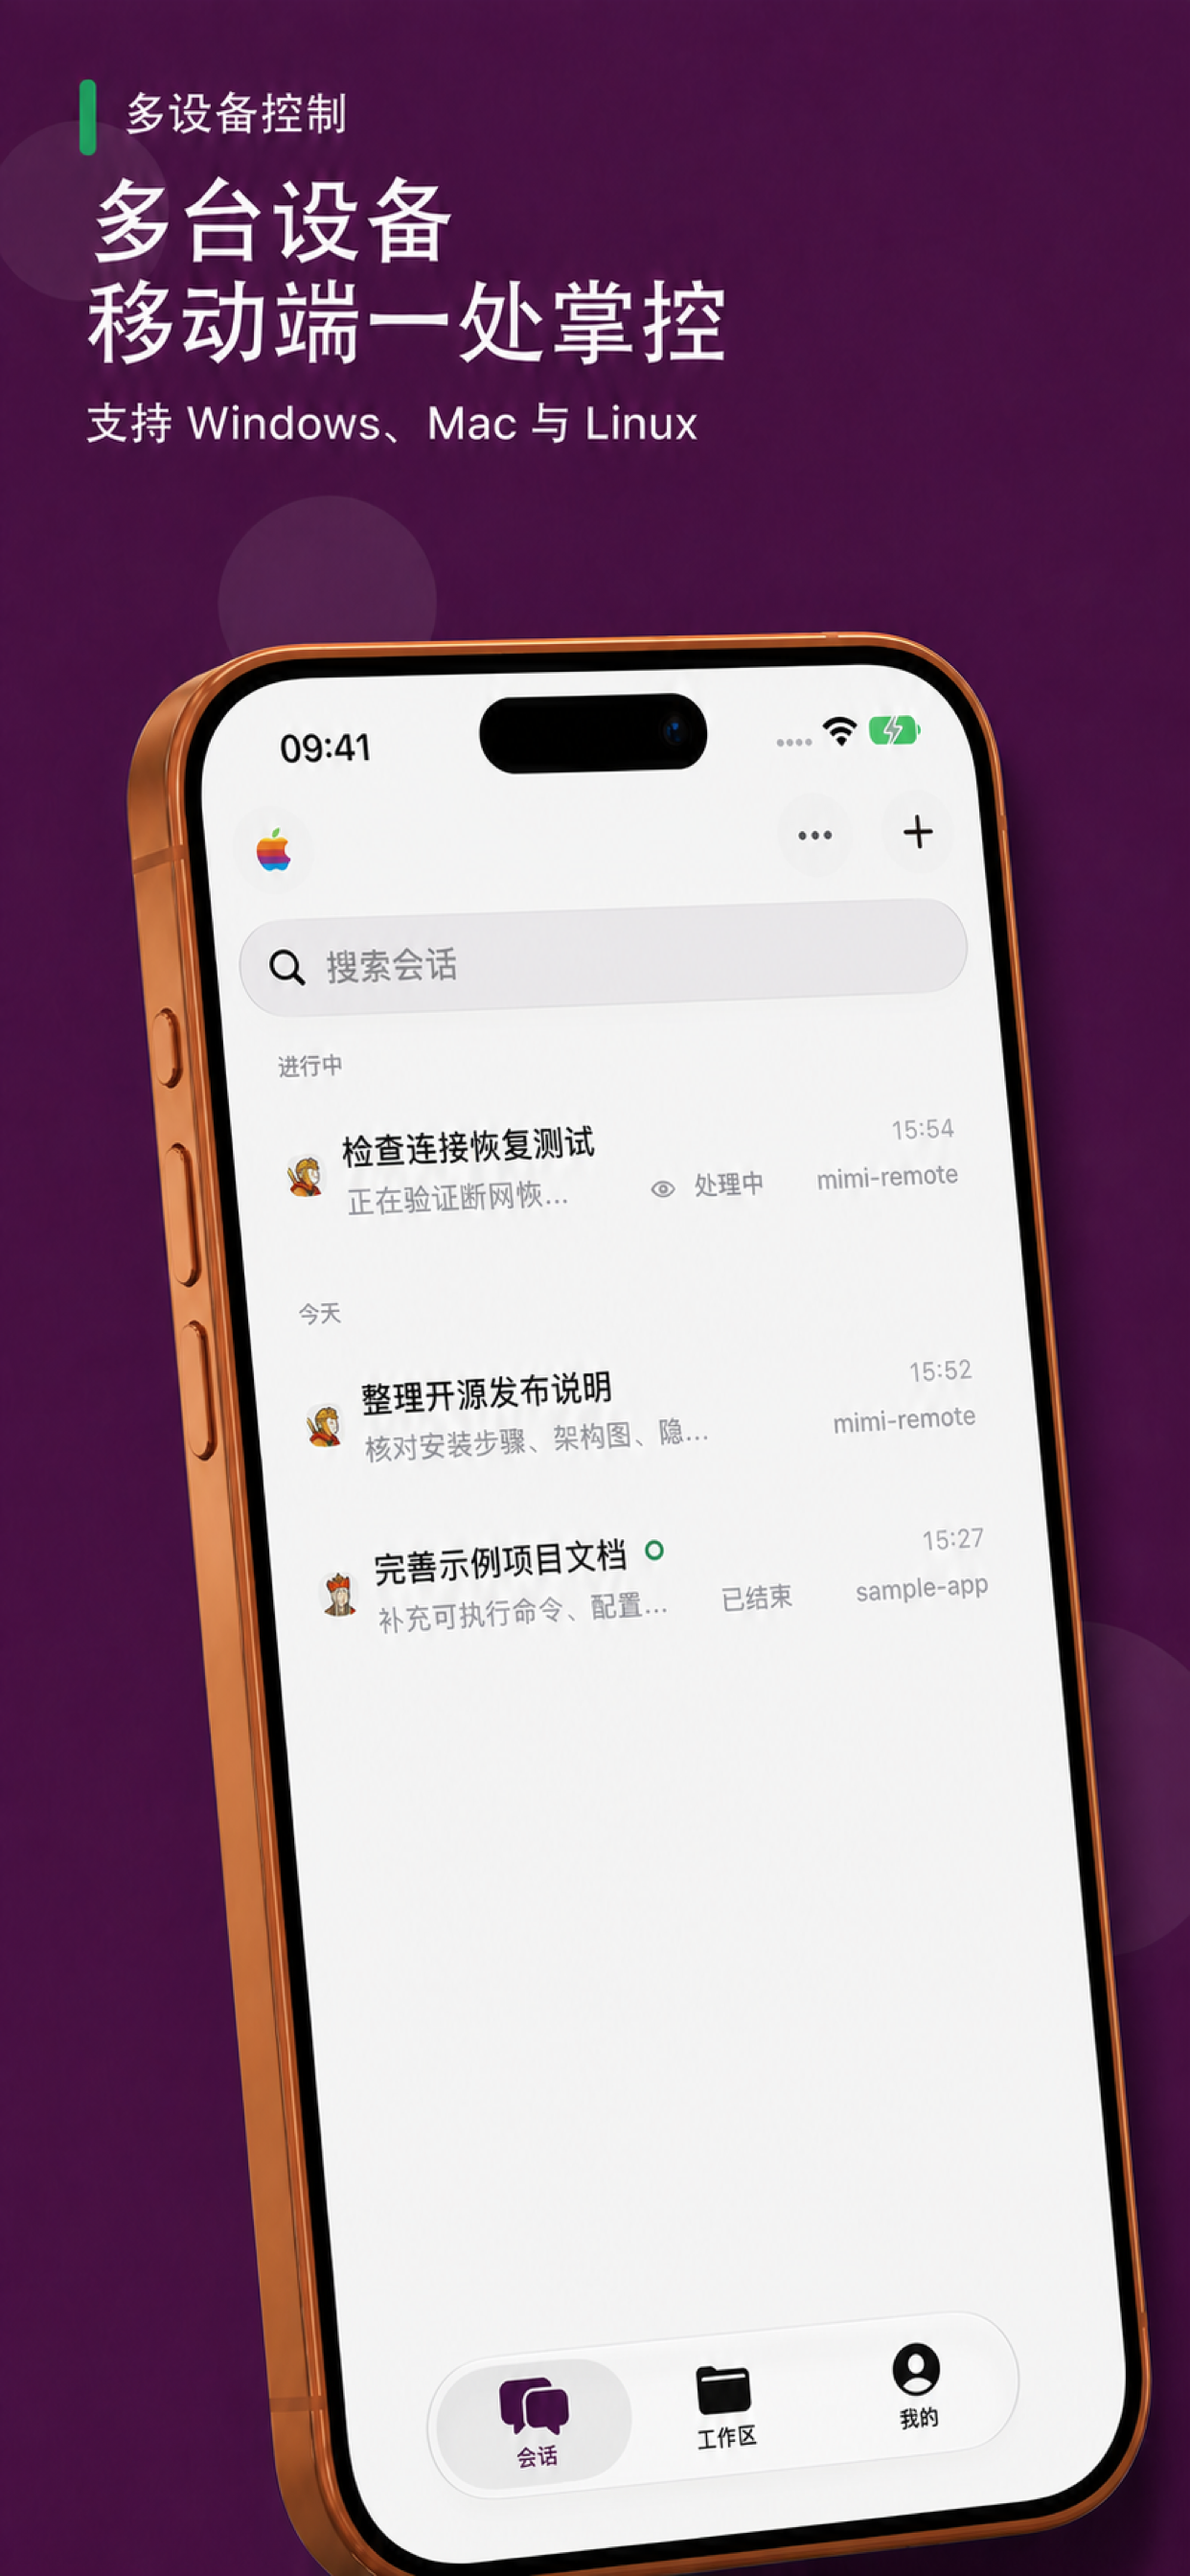
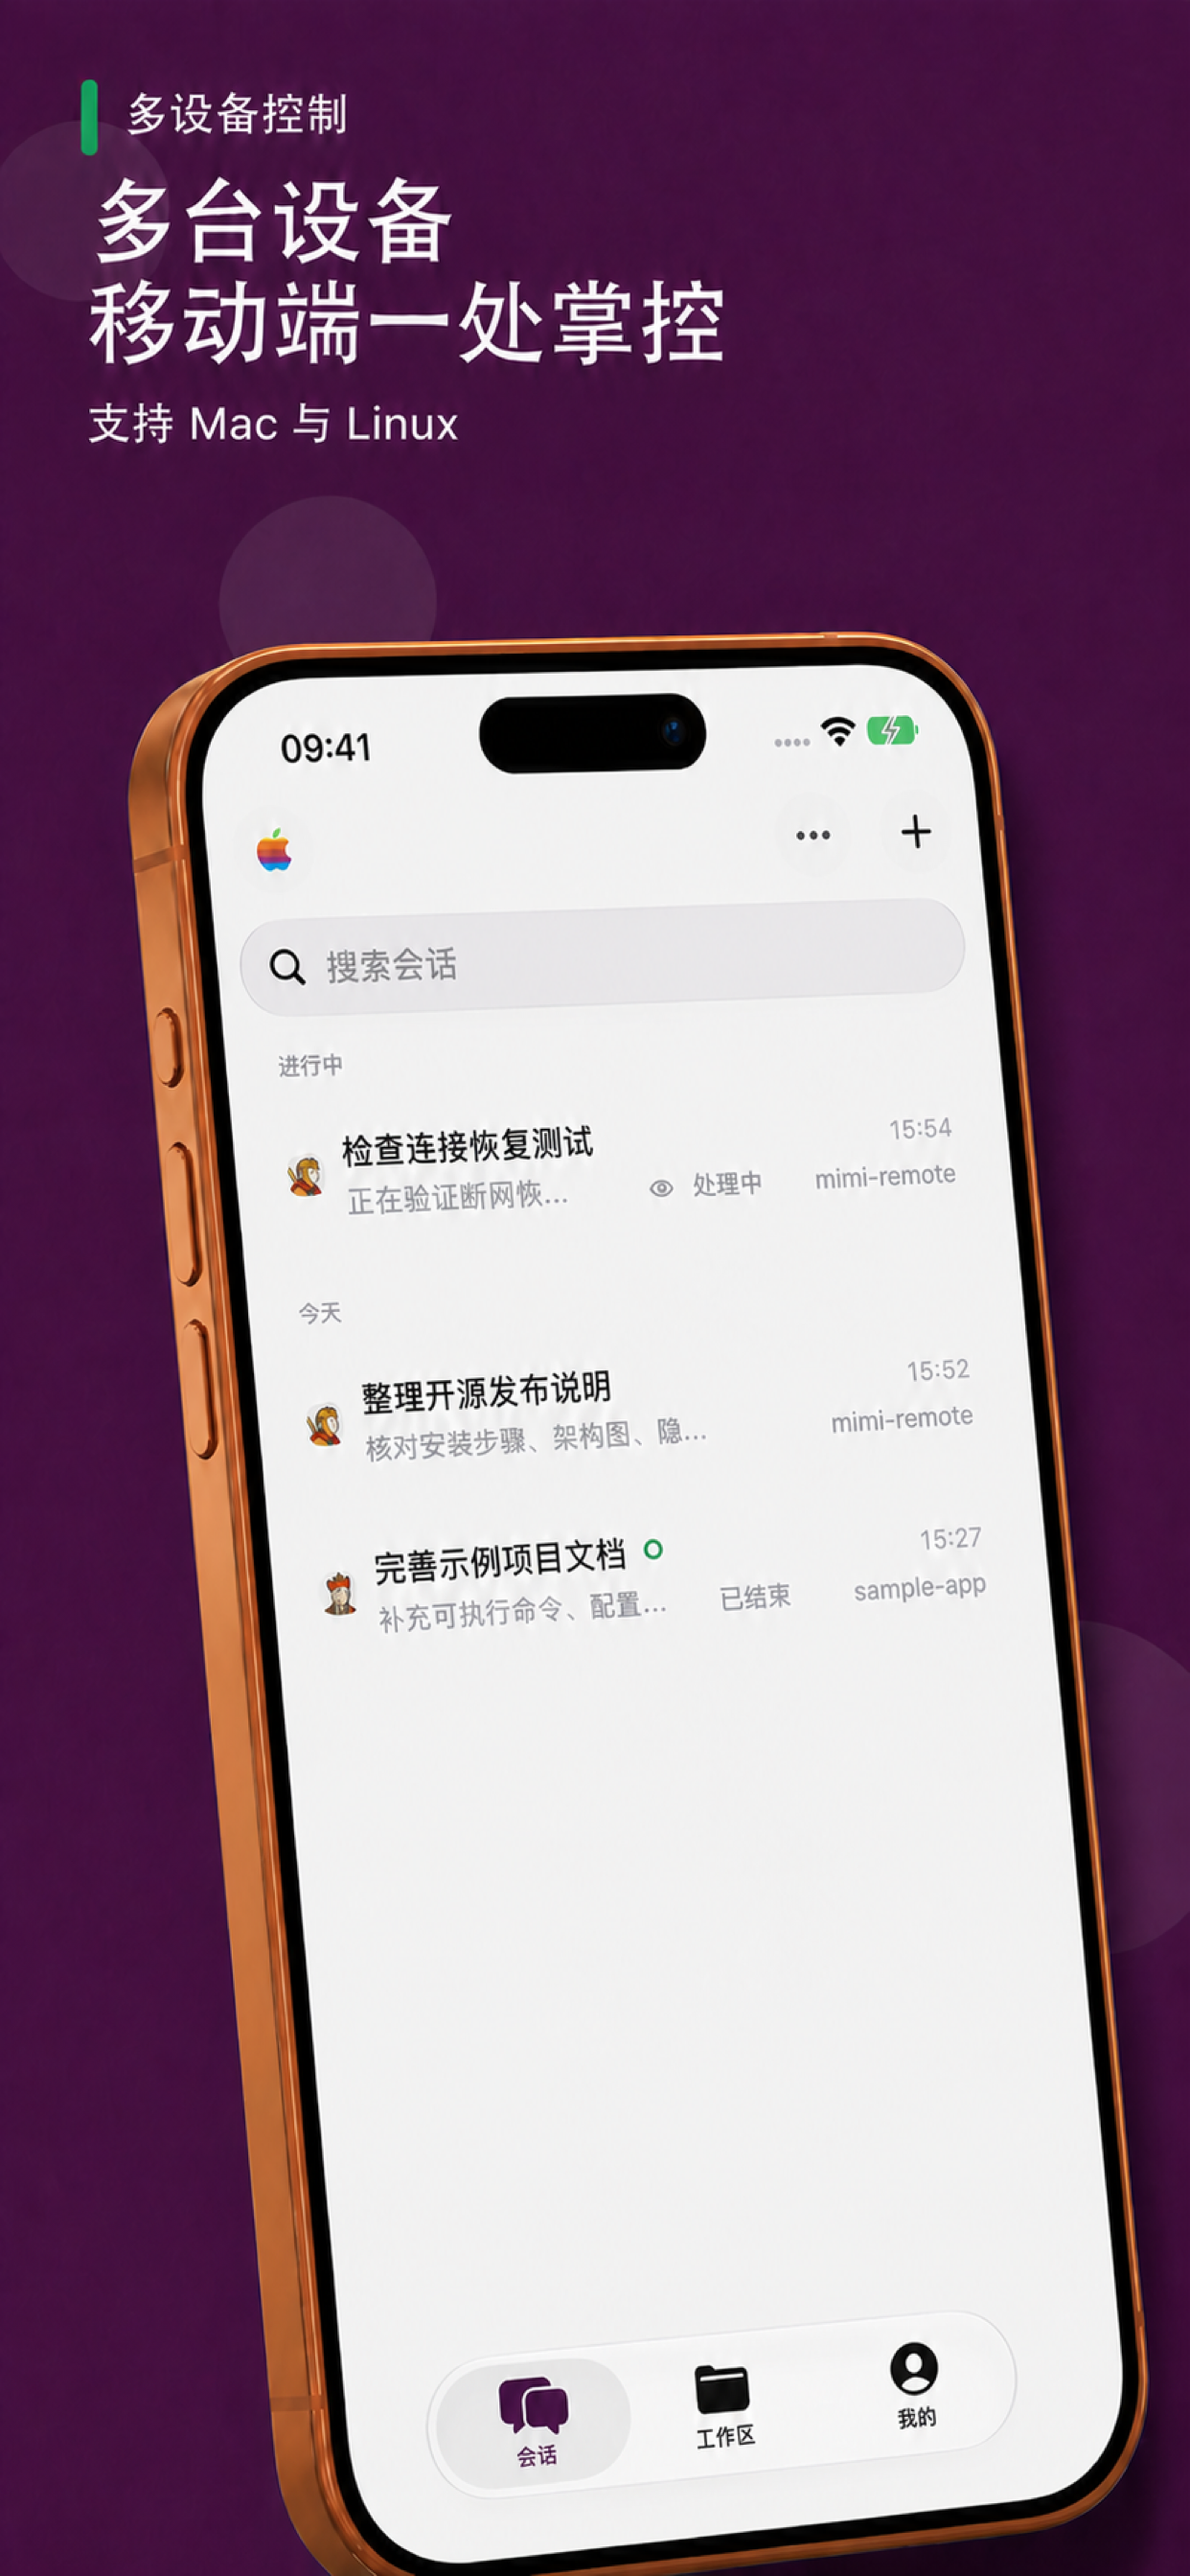
MIM-227 correct Windows host claim

diff --git a/artifacts/app-store/mim-227-promotion/imagegen-v2/PROMPTS.md b/artifacts/app-store/mim-227-promotion/imagegen-v2/PROMPTS.md
@@ -35,7 +35,7 @@ badges, watermarks, or product marks.
 | 文件 | 标识 | 主标题 | 说明 | 角度 |
 | --- | --- | --- | --- | --- |
 | `01-conversation.png` | 会话接力 | 电脑上的会话 / 接着在移动端用 | 离开电脑，也不用重新开始 | 顺时针约 1.5°，接近正面 |
-| `02-sessions.png` | 多设备控制 | 多台设备 / 移动端一处掌控 | 支持 Windows、Mac 与 Linux | 逆时针约 2.5°，略向右移 |
+| `02-sessions.png` | 多设备控制 | 多台设备 / 移动端一处掌控 | 支持 Mac 与 Linux | 逆时针约 2.5°，略向右移 |
 | `03-workspace.png` | 原生客户端会话 | Codex 与 Claude Code / 会话无缝接力 | 保留熟悉的工作方式与上下文 | 顺时针约 3°，略近景 |
 | `04-connection.png` | 优雅设计 | 复杂能力 / 也能简单好用 | 为 iPhone 与 iPad 分别打磨 | 逆时针约 1°，接近正面 |
 

diff --git a/artifacts/app-store/mim-227-promotion/IPAD-PROMPTS.md b/artifacts/app-store/mim-227-promotion/IPAD-PROMPTS.md
@@ -15,4 +15,4 @@ Keep all supplied Chinese marketing copy visible and correctly spelled.
 Do not invent UI, labels, icons, logos, watermarks, or extra devices.
 ```
 
-四张图依次展示会话接力、多设备控制、原生客户端会话和优雅设计。ImageGen 会重采样界面，上传前必须再次核对界面文字、图标和控件。
+四张图依次展示会话接力、多设备控制、原生客户端会话和优雅设计。第 2 张的支持说明固定为“支持 Mac 与 Linux”，不把只能作为 Codex Desktop 客户端的 Windows 描述为 `agentd` 宿主。ImageGen 会重采样界面，上传前必须再次核对界面文字、图标和控件。
